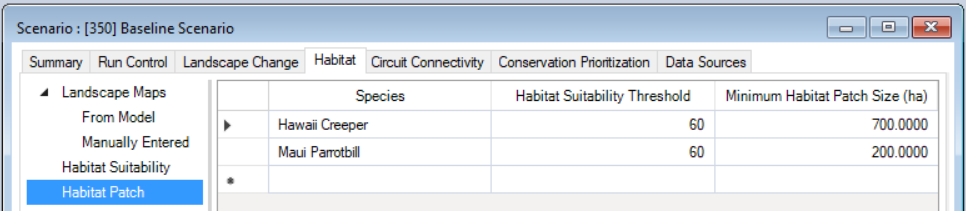
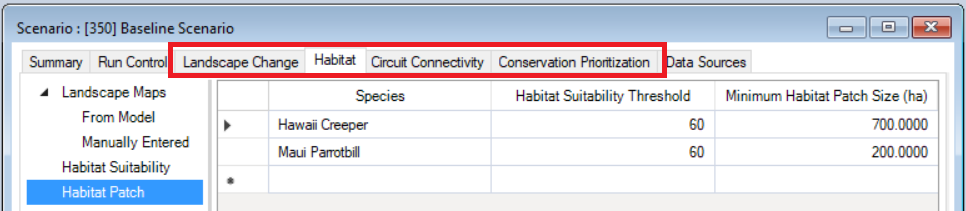
screencap-5.PNG

Changed region(s): [[0.1553, 0.1991, 0.7143, 0.3697]]

diff --git a/docs/getting_started.md b/docs/getting_started.md
@@ -55,7 +55,7 @@ The first tab in this window, called **Summary**, displays some generic informat
 <br>
 <img align="middle" style="padding: 3px" width="700" src="assets/images/screencap-4.PNG">
 <br>
-Click on the **Habitat**, **Circuit Connectivity**, and **Conservation Prioritization** tabs to familiarize yourself with this Scenario's inputs.
+Click on the **Landscape Change**, **Habitat**, **Circuit Connectivity**, and **Conservation Prioritization** tabs to familiarize yourself with this Scenario's inputs.
 <br>
 <img align="middle" style="padding: 3px" width="700" src="assets/images/screencap-5.PNG">
 <br>
